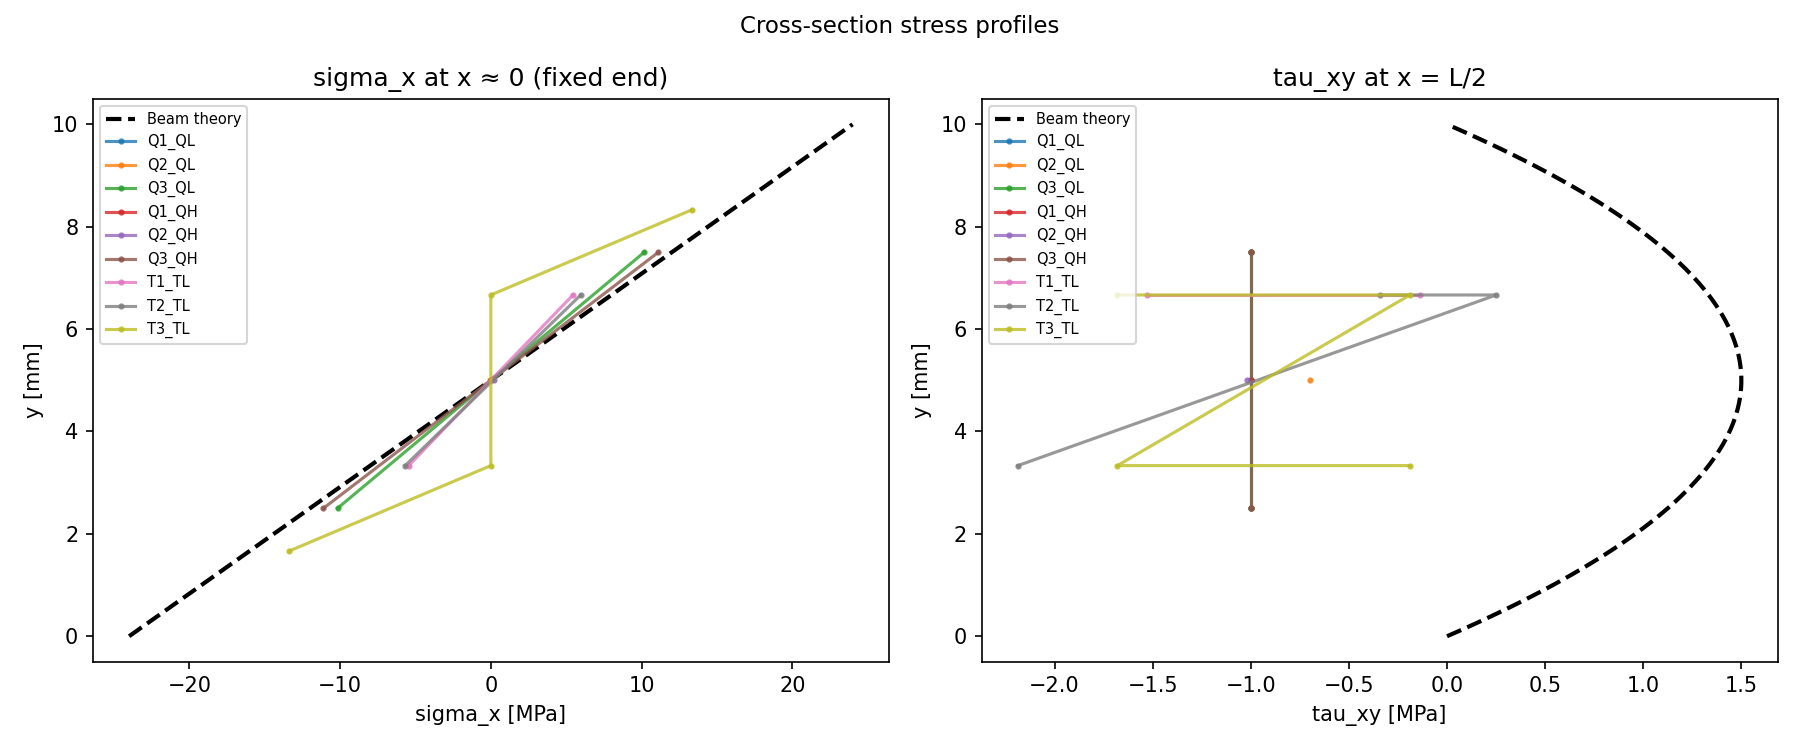
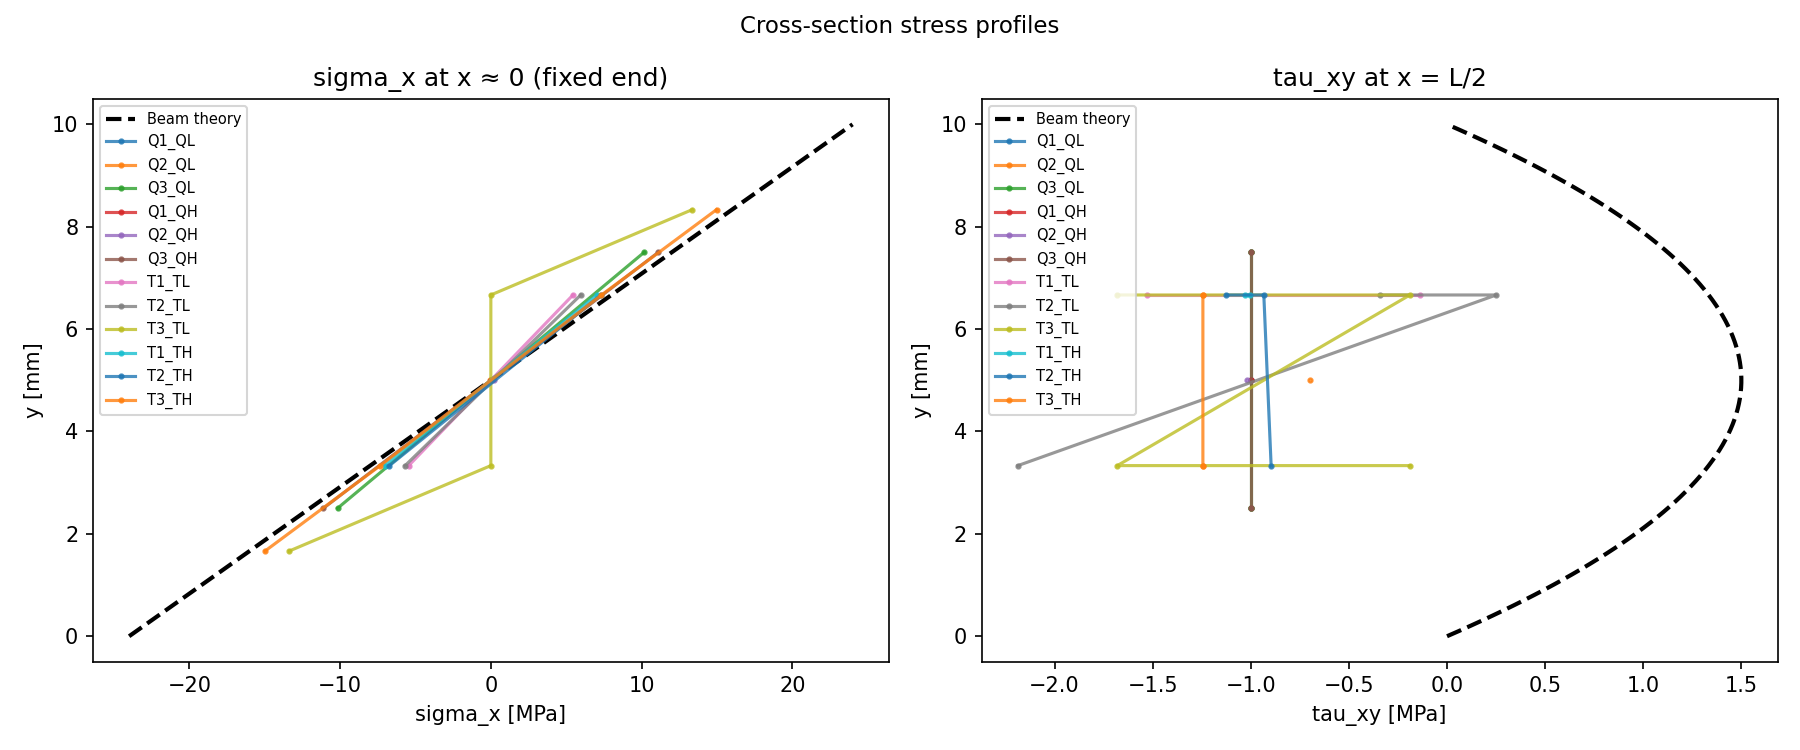
sec 2.1.2: fix T6 Jacobian transpose bug; TH cases now converge correctly

diff --git a/sec_02/2.1/2/fem_plane_stress_beam.py b/sec_02/2.1/2/fem_plane_stress_beam.py
@@ -79,7 +79,7 @@ boundary_conditions: dict[str, Any] = {
     "left_edge_fixed": True,  # ux = uy = 0 on x = 0
 }
 
-# Current implemented cases: figure 2.3 mesh patterns with linear and QH versions.
+# Current implemented cases: figure 2.3 mesh patterns with linear, QH, and TH versions.
 analysis_cases: list[dict[str, str]] = [
     {"name": "Q1_QL", "mesh_pattern": "Q1", "element_version": "QL"},
     {"name": "Q2_QL", "mesh_pattern": "Q2", "element_version": "QL"},
@@ -90,6 +90,9 @@ analysis_cases: list[dict[str, str]] = [
     {"name": "T1_TL", "mesh_pattern": "T1", "element_version": "TL"},
     {"name": "T2_TL", "mesh_pattern": "T2", "element_version": "TL"},
     {"name": "T3_TL", "mesh_pattern": "T3", "element_version": "TL"},
+    {"name": "T1_TH", "mesh_pattern": "T1", "element_version": "TH"},
+    {"name": "T2_TH", "mesh_pattern": "T2", "element_version": "TH"},
+    {"name": "T3_TH", "mesh_pattern": "T3", "element_version": "TH"},
 ]
 
 # Pattern-specific grid counts following figure 2.3.
@@ -130,6 +133,7 @@ class MeshData:
     mesh_pattern: str
     characteristic_dx: float
     q8_elements: np.ndarray | None = None  # shape (E, 8)  node indices per Q8 cell
+    t6_elements: np.ndarray | None = None  # shape (E, 6)  node indices per T6 cell
     right_edge_midnodes: np.ndarray | None = None  # shape (R,)  midside node per right edge
 
 
@@ -389,8 +393,8 @@ def _build_triangle_mesh(pattern: str) -> MeshData:
 def generate_beam_mesh(case_cfg: dict[str, str]) -> MeshData:
     """Generate one textbook mesh pattern directly from figure 2.3.
 
-    For QH element version the base Q4 mesh is enriched with midside nodes
-    to produce a Q8 (serendipity) mesh.
+    For QH the base Q4 mesh is enriched with midside nodes to produce Q8.
+    For TH the base TL mesh is enriched with midside nodes to produce T6.
     """
     mesh_pattern = case_cfg["mesh_pattern"]
     element_version = case_cfg["element_version"]
@@ -399,7 +403,10 @@ def generate_beam_mesh(case_cfg: dict[str, str]) -> MeshData:
         if element_version == "QH":
             return enrich_q4_to_q8(base_mesh)
         return base_mesh
-    return _build_triangle_mesh(mesh_pattern)
+    base_mesh = _build_triangle_mesh(mesh_pattern)
+    if element_version == "TH":
+        return enrich_tri3_to_tri6(base_mesh)
+    return base_mesh
 
 
 # ---------------------------------------------------------------------------
@@ -471,6 +478,83 @@ def enrich_q4_to_q8(mesh: MeshData) -> MeshData:
         quad_elements=mesh.quad_elements,
         tri_elements=None,
         q8_elements=np.asarray(q8_list, dtype=int),
+        right_edges=mesh.right_edges,
+        right_edge_midnodes=np.asarray(right_mid, dtype=int),
+        fixed_nodes=new_fixed,
+        mesh_pattern=mesh.mesh_pattern,
+        characteristic_dx=mesh.characteristic_dx,
+    )
+
+
+# ---------------------------------------------------------------------------
+# T6 mesh enrichment
+# ---------------------------------------------------------------------------
+
+
+def enrich_tri3_to_tri6(mesh: MeshData) -> MeshData:
+    """Add midside nodes to a TL mesh to produce a T6 (quadratic triangle) mesh.
+
+    Each edge shared between two triangles gets exactly one midside node.
+    Right-face and left-face boundary edges are handled so traction and
+    constraint DOFs are consistent.
+
+    Node ordering in each T6 element:
+        [n1, n2, n3, m12, m23, m31]
+    where m12 is the midpoint of edge n1-n2, etc.
+
+    Args:
+        mesh: TL MeshData (must have tri_elements set).
+
+    Returns:
+        New MeshData with extended nodes, t6_elements, right_edge_midnodes,
+        and fixed_nodes augmented by left-edge midside nodes.
+
+    Raises:
+        ValueError: If mesh has no triangle connectivity.
+    """
+    if mesh.tri_elements is None:
+        raise ValueError("enrich_tri3_to_tri6 requires tri_elements to be set.")
+
+    new_nodes: list[np.ndarray] = list(mesh.nodes)
+    edge_to_midnode: dict[tuple[int, int], int] = {}
+
+    def get_midnode(n1: int, n2: int) -> int:
+        """Return (creating if needed) the midside node index for edge (n1,n2)."""
+        key = (min(n1, n2), max(n1, n2))
+        if key not in edge_to_midnode:
+            mid = (mesh.nodes[n1] + mesh.nodes[n2]) * 0.5
+            idx = len(new_nodes)
+            new_nodes.append(mid)
+            edge_to_midnode[key] = idx
+        return edge_to_midnode[key]
+
+    # Build T6 connectivity.  TL ordering: [n1, n2, n3]
+    t6_list: list[list[int]] = []
+    for conn in mesh.tri_elements:
+        n1, n2, n3 = int(conn[0]), int(conn[1]), int(conn[2])
+        m12 = get_midnode(n1, n2)
+        m23 = get_midnode(n2, n3)
+        m31 = get_midnode(n3, n1)
+        t6_list.append([n1, n2, n3, m12, m23, m31])
+
+    # Right-edge midside nodes (one per original right edge pair).
+    right_mid: list[int] = []
+    for n1, n2 in mesh.right_edges:
+        right_mid.append(get_midnode(int(n1), int(n2)))
+
+    # Fixed (left-edge) midside nodes.
+    sorted_fixed = np.sort(mesh.fixed_nodes)
+    left_mid: list[int] = []
+    for i in range(len(sorted_fixed) - 1):
+        left_mid.append(get_midnode(int(sorted_fixed[i]), int(sorted_fixed[i + 1])))
+
+    new_fixed = np.concatenate([mesh.fixed_nodes, np.asarray(left_mid, dtype=int)])
+
+    return MeshData(
+        nodes=np.asarray(new_nodes, dtype=float),
+        quad_elements=None,
+        tri_elements=mesh.tri_elements,
+        t6_elements=np.asarray(t6_list, dtype=int),
         right_edges=mesh.right_edges,
         right_edge_midnodes=np.asarray(right_mid, dtype=int),
         fixed_nodes=new_fixed,
@@ -744,6 +828,132 @@ def q8_stiffness(coords: np.ndarray, constitutive: np.ndarray, thickness: float)
 
 
 # ---------------------------------------------------------------------------
+# T6 quadratic triangle element functions
+# ---------------------------------------------------------------------------
+
+
+def t6_shape_derivatives(L1: float, L2: float) -> np.ndarray:
+    """Return shape function derivatives dN/d(L1,L2) for T6 in area coordinates.
+
+    Node ordering (matches enrich_tri3_to_tri6):
+        0: n1 (corner, L1=1, L2=0, L3=0)
+        1: n2 (corner, L1=0, L2=1, L3=0)
+        2: n3 (corner, L1=0, L2=0, L3=1)
+        3: m12 (midside n1-n2, L1=L2=0.5)
+        4: m23 (midside n2-n3, L2=L3=0.5)
+        5: m31 (midside n3-n1, L3=L1=0.5)
+
+    With L3 = 1 - L1 - L2, independent variables are L1 and L2.
+
+    Shape functions:
+        N0 = L1(2L1 - 1),  N1 = L2(2L2 - 1),  N2 = L3(2L3 - 1)
+        N3 = 4 L1 L2,      N4 = 4 L2 L3,       N5 = 4 L1 L3
+
+    Args:
+        L1: First area coordinate.
+        L2: Second area coordinate.
+
+    Returns:
+        Shape (6, 2) array; row i is [dNi/dL1, dNi/dL2].
+    """
+    L3 = 1.0 - L1 - L2
+    dN = np.zeros((6, 2), dtype=float)
+
+    # Corner node 0: N0 = L1(2L1 - 1)
+    dN[0, 0] = 4.0 * L1 - 1.0
+    dN[0, 1] = 0.0
+
+    # Corner node 1: N1 = L2(2L2 - 1)
+    dN[1, 0] = 0.0
+    dN[1, 1] = 4.0 * L2 - 1.0
+
+    # Corner node 2: N2 = L3(2L3 - 1), L3 = 1 - L1 - L2
+    #   dN2/dL1 = (4L3 - 1) * (-1) = 1 - 4L3
+    #   dN2/dL2 = (4L3 - 1) * (-1) = 1 - 4L3
+    dN[2, 0] = 1.0 - 4.0 * L3
+    dN[2, 1] = 1.0 - 4.0 * L3
+
+    # Midside node 3: N3 = 4 L1 L2
+    dN[3, 0] = 4.0 * L2
+    dN[3, 1] = 4.0 * L1
+
+    # Midside node 4: N4 = 4 L2 L3 = 4 L2 (1 - L1 - L2)
+    dN[4, 0] = -4.0 * L2
+    dN[4, 1] = 4.0 * (L3 - L2)
+
+    # Midside node 5: N5 = 4 L1 L3 = 4 L1 (1 - L1 - L2)
+    dN[5, 0] = 4.0 * (L3 - L1)
+    dN[5, 1] = -4.0 * L1
+
+    return dN
+
+
+def t6_b_matrix(coords: np.ndarray, L1: float, L2: float) -> tuple[np.ndarray, float]:
+    """Build T6 strain-displacement matrix and Jacobian determinant.
+
+    The Jacobian maps from area coordinates (L1, L2) to physical (x, y):
+        J = dN^T @ coords   (shape 2x2)
+
+    Args:
+        coords: Shape (6, 2) node coordinates in T6 ordering.
+        L1, L2: Area coordinates; L3 = 1 - L1 - L2.
+
+    Returns:
+        Tuple of (B matrix (3x12), det(J)).
+    """
+    dnd_natural = t6_shape_derivatives(L1, L2)  # (6, 2)
+    # Same convention as q4_b_matrix: jacobian = coords.T @ dN/d(natural) = J^T.
+    # Then inv_j = (J^T)^{-1} = J^{-T}, and dnd_global = dnd_natural @ inv_j
+    # correctly yields dNi/dx, dNi/dy via the chain rule.
+    jacobian = coords.T @ dnd_natural  # (2, 2) = J^T
+    det_j = float(np.linalg.det(jacobian))
+    if det_j <= 0.0:
+        raise ValueError(f"Invalid T6 Jacobian (det={det_j:.6e}). Check mesh distortion.")
+
+    inv_j = np.linalg.inv(jacobian)
+    dnd_global = dnd_natural @ inv_j  # (6, 2)
+
+    b_mat = np.zeros((3, 12), dtype=float)
+    for i in range(6):
+        dnx = dnd_global[i, 0]
+        dny = dnd_global[i, 1]
+        base = 2 * i
+        b_mat[0, base] = dnx
+        b_mat[1, base + 1] = dny
+        b_mat[2, base] = dny
+        b_mat[2, base + 1] = dnx
+
+    return b_mat, det_j
+
+
+def t6_stiffness(coords: np.ndarray, constitutive: np.ndarray, thickness: float) -> np.ndarray:
+    """Compute 12x12 T6 element stiffness matrix using 3-point Gauss integration.
+
+    Uses the standard 3-point rule on the reference triangle (degree 2 exactness):
+        points (L1, L2): (1/6, 1/6), (2/3, 1/6), (1/6, 2/3)
+        weights: 1/6 each  (sum = 1/2 = area of reference triangle)
+
+    K_e = t * sum_gp [ w * B^T D B * det(J) ]
+
+    Args:
+        coords: Shape (6, 2) node coordinates.
+        constitutive: 3x3 constitutive matrix.
+        thickness: Out-of-plane thickness b.
+
+    Returns:
+        12x12 stiffness matrix.
+    """
+    a = 1.0 / 6.0
+    b = 2.0 / 3.0
+    gauss_points = [(a, a, a), (b, a, a), (a, b, a)]  # (L1, L2, weight)
+    ke = np.zeros((12, 12), dtype=float)
+    for L1, L2, w in gauss_points:
+        b_mat, det_j = t6_b_matrix(coords, L1, L2)
+        ke += thickness * w * (b_mat.T @ constitutive @ b_mat) * det_j
+    return ke
+
+
+# ---------------------------------------------------------------------------
 # CST splitting utilities
 # ---------------------------------------------------------------------------
 
@@ -832,6 +1042,11 @@ def assemble_system(
             raise ValueError(f"Q8 connectivity missing for pattern {mesh.mesh_pattern}.")
         elements = mesh.q8_elements
         dof_per_element = 16
+    elif element_version == "TH":
+        if mesh.t6_elements is None:
+            raise ValueError(f"T6 connectivity missing for pattern {mesh.mesh_pattern}.")
+        elements = mesh.t6_elements
+        dof_per_element = 12
     else:
         raise NotImplementedError(f"Element version {element_version} is not implemented yet.")
 
@@ -845,8 +1060,10 @@ def assemble_system(
             ke = cst_stiffness(coords, constitutive, thickness)
         elif element_version == "QL":
             ke = q4_stiffness(coords, constitutive, thickness)
-        else:
+        elif element_version == "QH":
             ke = q8_stiffness(coords, constitutive, thickness)
+        else:
+            ke = t6_stiffness(coords, constitutive, thickness)
 
         dofs = np.zeros(dof_per_element, dtype=int)
         for local_idx, nid in enumerate(conn):
@@ -859,12 +1076,13 @@ def assemble_system(
 
     # Apply right-face shear traction as equivalent nodal forces.
     # For QL/TL: uniform traction on a linear edge -> each corner node gets L/2.
-    # For QH: quadratic edge with 3 nodes -> consistent nodal forces [1/6, 2/3, 1/6]*L.
+    # For QH/TH: quadratic edge with 3 nodes -> consistent nodal forces [1/6, 2/3, 1/6]*L.
+    use_quadratic_edge = element_version in ("QH", "TH")
     for edge_idx, (n1, n2) in enumerate(mesh.right_edges):
         x1, y1 = mesh.nodes[n1]
         x2, y2 = mesh.nodes[n2]
         edge_length = float(np.hypot(x2 - x1, y2 - y1))
-        if element_version == "QH" and mesh.right_edge_midnodes is not None:
+        if use_quadratic_edge and mesh.right_edge_midnodes is not None:
             # Consistent nodal force for 3-node quadratic edge under uniform traction.
             n_mid = int(mesh.right_edge_midnodes[edge_idx])
             force[2 * n1 + 1] += traction_y * thickness * edge_length / 6.0
@@ -939,7 +1157,7 @@ def compute_element_stress(
         elements: Shape (E, n_nodes_per_elem) connectivity.
         displacements: Flattened displacement vector (2N,).
         constitutive: 3x3 constitutive matrix.
-        element_version: 'TL' or 'QL'.
+        element_version: 'TL', 'QL', 'QH', or 'TH'.
 
     Returns:
         Tuple of (stress (E,3), centers (E,2), von_mises (E,)).
@@ -966,8 +1184,8 @@ def compute_element_stress(
                 b_mat, _ = q4_b_matrix(coords, xi, eta)
                 sigmas.append(constitutive @ (b_mat @ ue))
             sigma = np.mean(np.asarray(sigmas), axis=0)
-        else:
-            # QH: average stress over 2x2 Gauss points (sufficient for stress output)
+        elif element_version == "QH":
+            # Average stress over 2x2 Gauss points (sufficient for stress output).
             g = 1.0 / np.sqrt(3.0)
             gp_qh = [(-g, -g), (g, -g), (g, g), (-g, g)]
             sigmas = []
@@ -975,6 +1193,10 @@ def compute_element_stress(
                 b_mat, _ = q8_b_matrix(coords, xi, eta)
                 sigmas.append(constitutive @ (b_mat @ ue))
             sigma = np.mean(np.asarray(sigmas), axis=0)
+        else:
+            # TH: evaluate at element centroid (L1 = L2 = L3 = 1/3).
+            b_mat, _ = t6_b_matrix(coords, 1.0 / 3.0, 1.0 / 3.0)
+            sigma = constitutive @ (b_mat @ ue)
 
         sxx, syy, txy = float(sigma[0]), float(sigma[1]), float(sigma[2])
         vm = von_mises_plane_stress(sxx, syy, txy)
